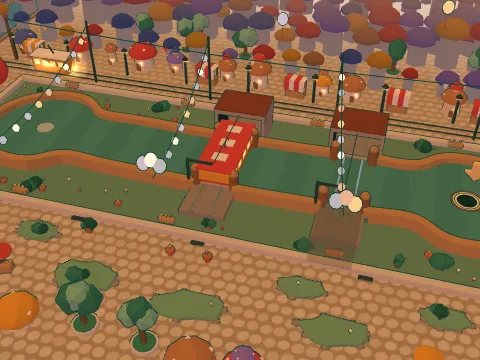
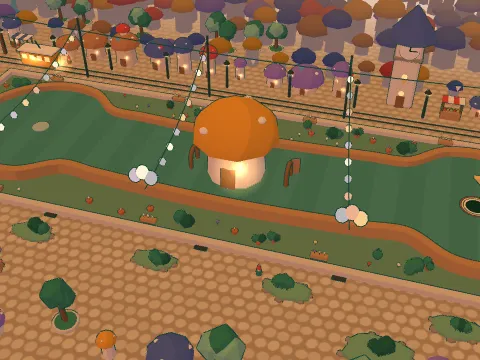
A shared hole link opens straight on the ball and keeps the address; town splash is Mushroom House, with no tram

diff --git a/web/components/Golf.tsx b/web/components/Golf.tsx
@@ -415,10 +415,10 @@ export default function Golf() {
   const onChain = record?.at === "saved"; // this round is on the chain
   const stale = record?.at === "refused" && record.stale; // its weather is over: no save any more
 
-  const play = () => {
+  const play = (direct = false) => {
     setScreen("play");
     if (!game.current) return;
-    game.current.play();
+    game.current.play(direct);
     // after the overview has had its moment and the camera is on the gnome
     if (cfg && cfg.demo) later(() => void (game.current && game.current.demo(cfg.demo.split(";"))), 2600);
   };
@@ -468,7 +468,7 @@ export default function Golf() {
             // a shared link: straight to that hole (a first-time player picks a
             // gnome first); a link to nothing lands on the cups, quietly
             if (!game_.linked()) setScreen("worlds");
-            else if (cfg.gnome || hadGnome()) play();
+            else if (cfg.gnome || hadGnome()) play(true); // straight onto the ball: the link said where
             else setScreen("pick");
           }
           // ?won=N shows the win card for N strokes — dev screenshots only
@@ -737,6 +737,8 @@ export default function Golf() {
     else if (screen === "play") return; // the hole is not known yet: wait for it
     const url = window.location.pathname + (String(q) ? `?${q}` : "");
     const here = window.location.pathname + window.location.search;
+    // a link to a hole keeps its address while the title shows (the game on its way to it)
+    if (screen === "title" && lastScreen.current === null && (cfg.hole || cfg.cup)) return;
     const moved = lastScreen.current !== null && lastScreen.current !== screen;
     lastScreen.current = screen;
     if (url === here) return;

diff --git a/web/lib/engine.ts b/web/lib/engine.ts
@@ -1155,10 +1155,13 @@ export function createGame(canvas: HTMLCanvasElement, { rpc, web, gnome, world: 
       g.covered = !!on;
       canvas.tabIndex = on ? -1 : 0; // a hidden course is not a place for Tab to land
     },
-    /** Leave the title screen: show the hole whole, then close on the ball. */
-    play() {
+    /** Leave the title screen: show the hole whole, then close on the ball;
+     *  direct (a link to this hole): straight to the player's camera. */
+    play(direct = false) {
       g.started = true;
-      closeIn = setTimeout(intro, OVERVIEW_MS);
+      if (!direct) return void (closeIn = setTimeout(intro, OVERVIEW_MS));
+      cam.jump(); // in its framing at once, not glided in
+      setView(home());
     },
     /**
      * Plays a list of "angle,power" shots as a player would, pulling the

diff --git a/web/lib/scene/title.ts b/web/lib/scene/title.ts
@@ -78,9 +78,7 @@ function golfBall() {
 }
 
 // Per world: how far up the lane the ride starts (clear of the garden's tunnel
-// mouths, the island's castle, the town's second tram line: its trams leave
-// the crossing clear for half a second at most, too short for the ride to
-// cross, so it starts past the rails and the tram goes by behind it), and the camera: how far off, from how far
+// mouths and the island's castle), and the camera: how far off, from how far
 // round (th, radians behind the cup > 0; pth upright, from beyond the cup by
 // default) and how high (h, times R)
 const SPOT: Record<string, { ride: number; R: number; h?: number; th?: number; pth?: number }> = { garden: { ride: 5.5, R: 13 }, island: { ride: 4.2, R: 12, h: 0.7 }, town: { ride: 6, R: 13 }, mountain: { ride: 8, R: 13 } };
